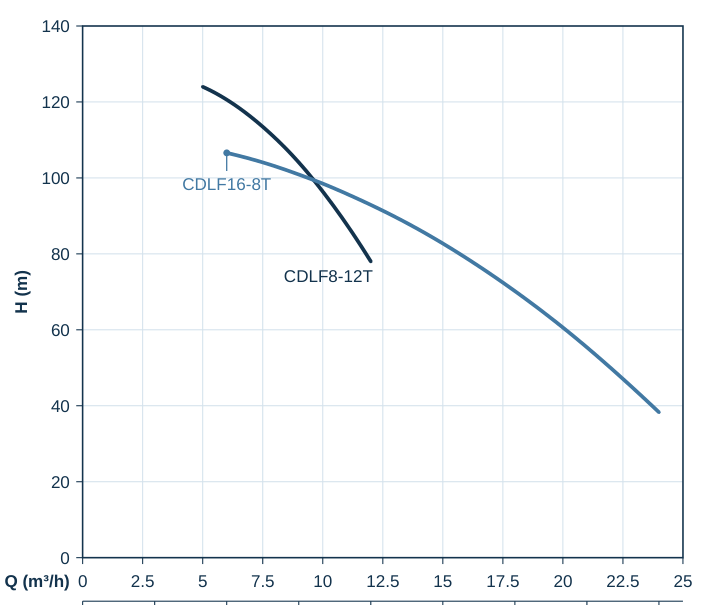
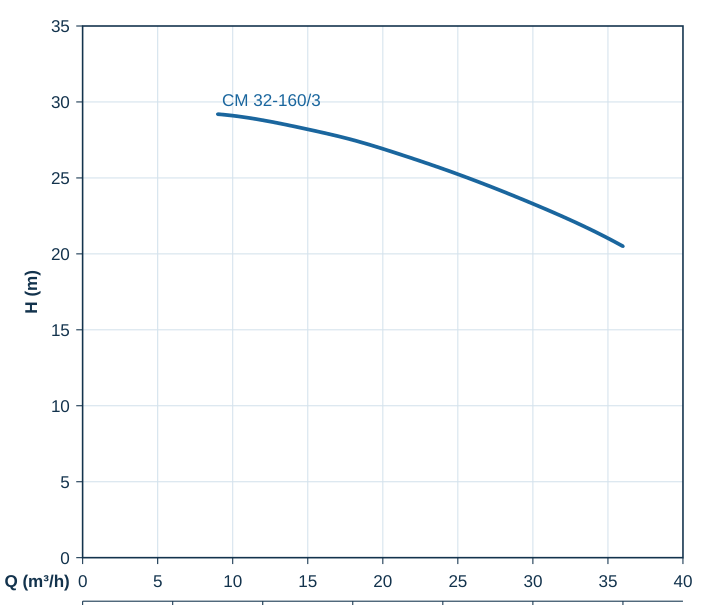
BG-27102026-001: đường CM 32-160/3 mềm (sau kiểm độc lập), báo cáo
Claude-Session: https://claude.ai/code/session_01UnqWpxyGHUC2c6PEYUfGD9

diff --git a/kho/work/claude_bg27102026_20261027/mk_xlsx.py b/kho/work/claude_bg27102026_20261027/mk_xlsx.py
@@ -27,7 +27,7 @@ def bo(nhom, out, models, toc):
                         r = (r[0], r[1], r[2], sua[r[2]], f'SỬA cũ {r[3]} → mới {sua[r[2]]} để đường cong đều/mềm (QĐ 158, QTH 4.2): đường bậc 2 qua 5/124 và 12/78; ' + str(r[4]))
                     qh.append(r)
             continue
-        (q0, h0), (q1, h1), buoc = cfg[:3]; them = cfg[3] if len(cfg) > 3 else []
+        (q0, h0), (q1, h1), buoc = cfg[:3]; them = cfg[3] if len(cfg) > 3 else []; tron = cfg[4] if len(cfg) > 4 else {}
         b = (h0 - h1) / (q1 ** 2 - q0 ** 2); a = h0 + b * q0 ** 2
         qs = []; q = q0
         while q <= q1 + 1e-9: qs.append(q); q += buoc
@@ -35,8 +35,9 @@ def bo(nhom, out, models, toc):
             if q == q0: h, n = h0, f'BÁO GIÁ: {q0}–{q1} m³/h, {h0}–{h1} m (đầu dải)'
             elif q == q1: h, n = h1, f'BÁO GIÁ: {q0}–{q1} m³/h, {h0}–{h1} m (cuối dải)'
             else: h, n = r1(a - b * q * q), ('SỐ DỰNG (cột Q chung với model khác, QTH 4.7): ' if q in them else 'SUY RA: ') + f'H = {a:.4f} − {b:.6f}·Q² = {a - b * q * q:.3f}, làm tròn 0,1 m'
+            if q in tron: n += f' → chọn {tron[q]} (làm tròn lên/xuống 0,1 m để đường mềm, lệch công thức ≤ 0,06 m)'; h = tron[q]
             qh.append(('PEROTAC', md, q, h, n + '; ' + BG))
     wb.save(out)
     for md in models: print(md, [(r[2], r[3]) for r in qh.iter_rows(min_row=2, values_only=True) if r[1] == md])
-bo('CM', W + '/CM32_160_3.xlsx', {'CM 32-160/3': ((9, 29.2), (36, 20.5), 3)}, 2900)
+bo('CM', W + '/CM32_160_3.xlsx', {'CM 32-160/3': ((9, 29.2), (36, 20.5), 3, [], {12: 28.8, 24: 25.6, 27: 24.5})}, 2900)
 bo('CDLF', W + '/CDLF_2MA.xlsx', {'CDLF8-12T': {6: 120.6, 7: 116.1, 8: 110.6, 9: 104.1, 10: 96.4, 11: 87.7}, 'CDLF16-8T': ((6, 106.6), (24, 38.3), 2, [7, 9, 11])}, 2900)

diff --git a/kho/work/claude_bg27102026_20261027/BAO_CAO.md b/kho/work/claude_bg27102026_20261027/BAO_CAO.md
@@ -4,8 +4,10 @@ Bộ 1: PEROTAC - Bơm trục ngang CM 32-160-3 (UNG VIEN 01).pdf — số CM32_
 Bộ 2: PEROTAC - Bơm trục đứng CDLF8-12T và CDLF16-8T (UNG VIEN 01).pdf — số CDLF_2MA.xlsx. Mã dựng: build_bg27.py (cm|cdlf), mk_xlsx.py.
 | Model | Q m³/h | H m | Loại số |
 |---|---|---|---|
-| CM 32-160/3 | 9 … 36 (bước 3) | 29.2 … 20.5 | BÁO GIÁ 2 đầu dải (DU_LIEU 0–27, 35–15 — áp QĐ 159); mức giữa SUY RA H = a − bQ² |
-| CDLF8-12T | 5 … 12 (bước 1) | 124 … 78 | NGUỒN DU_LIEU (khớp báo giá); SỬA 6 ô giữa để đường đều: 120→120.6, 116→116.1, 111→110.6, 104→104.1, 97→96.4, 87→87.7 |
+| CM 32-160/3 | 9 … 36 (bước 3) | 29.2, 28.8, 28.2, 27.5, 26.6, 25.6, 24.5, 23.3, 22.0, 20.5 | BÁO GIÁ 2 đầu dải (DU_LIEU 0–27, 35–15 — áp QĐ 159, anh xác nhận); mức giữa SUY RA H = 29.78 − 0.00716·Q², làm tròn 0,1 m chọn lên/xuống để đường mềm (lệch ≤ 0.06 m) |
+| CDLF8-12T | 5 … 12 (bước 1) | 124 … 78 | NGUỒN DU_LIEU (khớp báo giá); SỬA 6 ô giữa để đường đều (lệch ≤ 0.7 m, < 1%): 120→120.6, 116→116.1, 111→110.6, 104→104.1, 97→96.4, 87→87.7 |
 | CDLF16-8T | 6 … 24 (bước 2) + 7, 9, 11 | 106.6 … 38.3 | BÁO GIÁ 2 đầu dải (DU_LIEU 8–22, 110–70 — áp QĐ 159); SUY RA mức giữa; 7/9/11 SỐ DỰNG (cột Q chung) |
 Tên 3 pha có hậu tố T (QTH 2: CDLF8-12T). Chữ: bản đã duyệt PEROTAC CM tr.1, CDLF tr.1–2 lấy bằng mã. Ảnh: CM 11a1ade937e6.jpeg (303 ppi); CDLF 89efdf5b933e.png (cùng hình 9655a7b5762b PEROTAC đã duyệt, bản nét hơn; 304 ppi).
 Kiểm tự động: kiem_catalogue ĐẠT 8/8 cả 2 bản. Chưa đưa vào CATALOGUE DA DUYET — chờ anh duyệt.
+Kiểm độc lập (AI khác): CDLF ĐẠT (số, đường mềm 0 lần đổi chiều, chữ, ảnh); CM số/chữ/ảnh ĐẠT nhưng đường gợn (làm tròn 0,1 m) → đã chọn lại 3 ô (12: 28.7→28.8, 24: 25.7→25.6, 27: 24.6→24.5), đường spline, đo trên PDF 0 lần đổi chiều độ cong; kiem_catalogue ĐẠT 8/8.
+SHA256: CM 5c99a75dfaae…, CDLF c1dd393dcceb….

diff --git a/kho/claude/TRANG_THAI_CLAUDE.md b/kho/claude/TRANG_THAI_CLAUDE.md
@@ -55,3 +55,4 @@ Mốc đọc nhanh đầu phiên, không phải sổ tiến độ. Thẩm quyề
 - 23/10 (phiên CLAUDE_20261023T0430Z): PEROTAC SS-150 catalogue riêng 1 trang A4 ngang, ứng viên 02 (bảng 8 mức Q, đường spline mềm theo QĐ 158) chờ anh duyệt: work/claude_ss150_20261023/ (BAO_CAO.md, build_ss150.py, lam_anh.py). Lỗi công cụ ve_duong_cong: ô so_cuc dạng chữ của SS.xlsx bị đọc thành "2850 poles" (xem BAO_CAO).
 - 23/10: QĐ 158 — bảng Q–H nhiều mức + đường cong mềm (QTH 4.14–4.15, CTB 2.2/3.7); tools/ve_duong_cong.py dùng spline khi không đổi dáng; đã niêm phong lại.
 - 24/10 (phiên CLAUDE_20261024T0100Z): AQUARIS CM 32-250/7.5 + CM 40-160/4 catalogue riêng 1 trang A4 dọc (QĐ 159, số 32-250/7.5 theo báo giá), ứng viên 02 bảng ngang (QĐ 160) chờ anh duyệt: work/claude_cm2_aquaris_20261024/. ve_duong_cong: ô ngoài dải ghi "–".
+- 27/10 (phiên CLAUDE_20261027T0100Z): báo giá BG-27102026-001 → 2 catalogue riêng PEROTAC (CM 32-160/3; CDLF8-12T + CDLF16-8T), số theo báo giá (QĐ 161), ứng viên 01 chờ anh duyệt: work/claude_bg27102026_20261027/.
